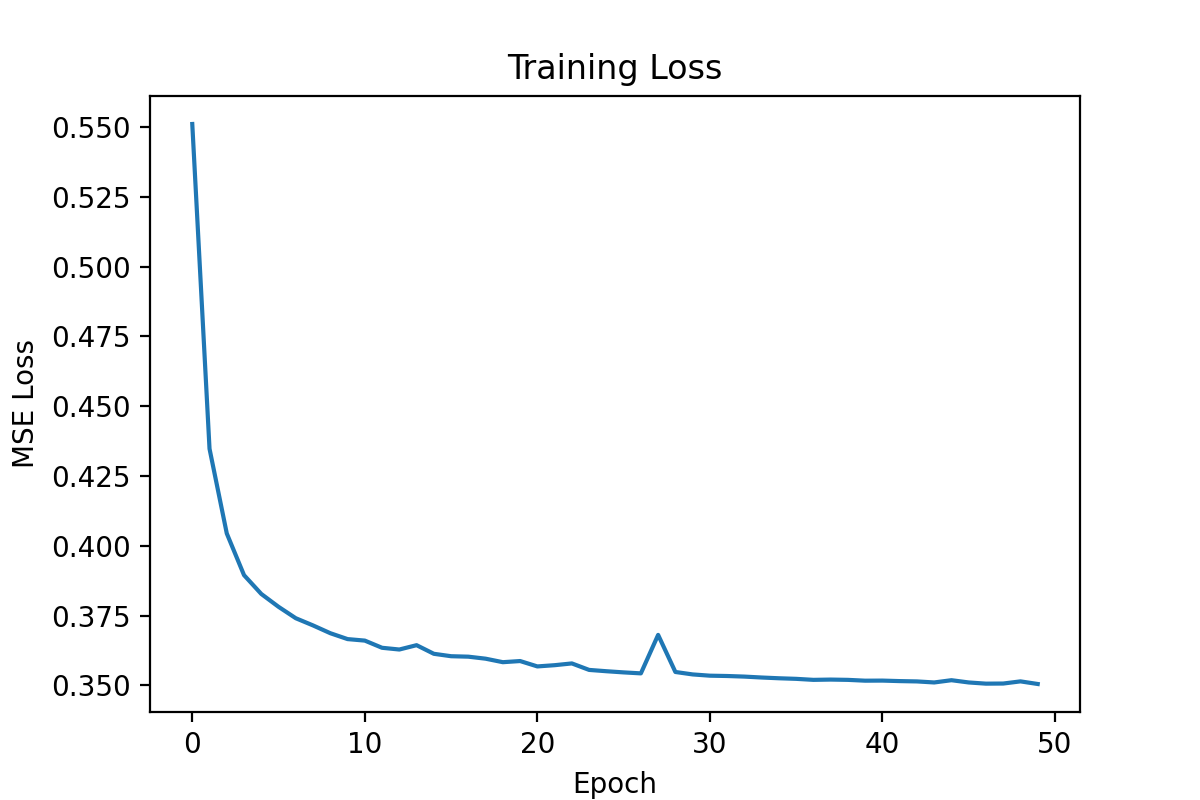
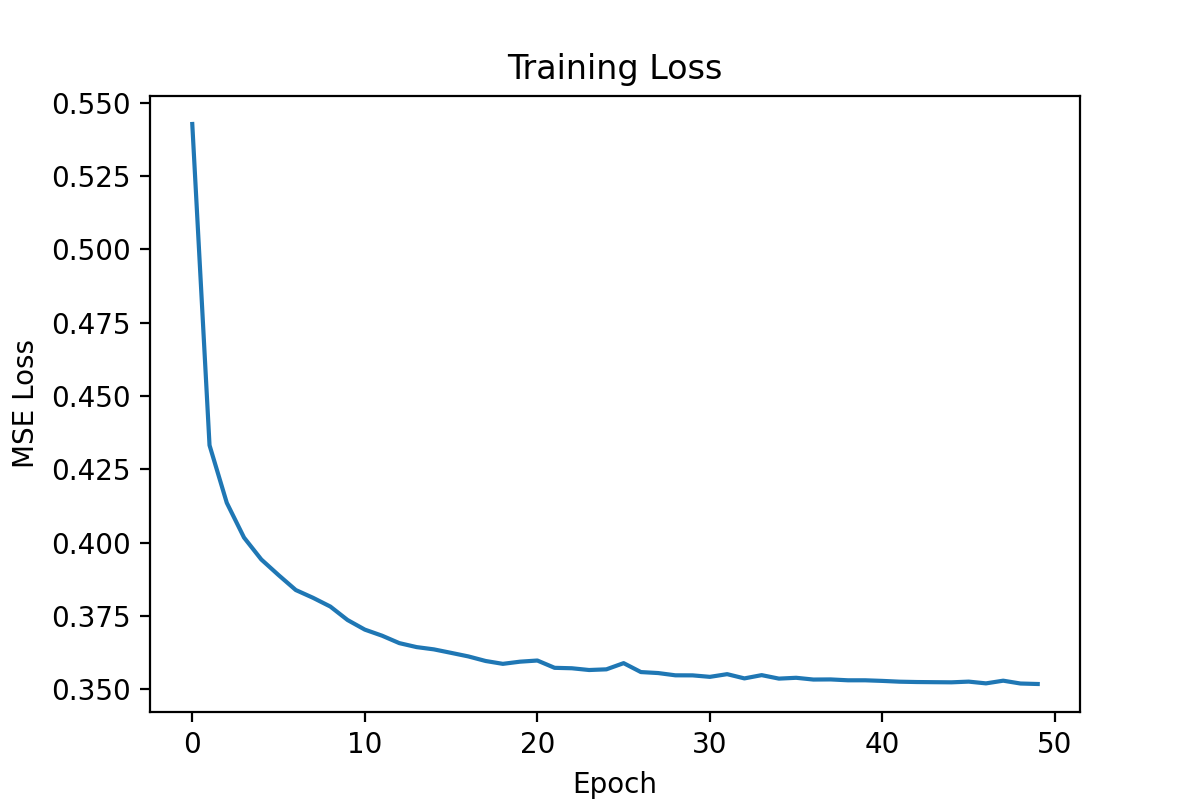
test

diff --git a/v2x_training_lstm.py b/v2x_training_lstm.py
@@ -127,25 +127,43 @@ def run_training(
 
     pre = V2XDataPreprocessor(feature_columns=feature_columns)
     
+    # 시퀀스 생성
     print("Creating sequences...")
     X_v2aix, y_v2aix = pre.create_sequences(v2aix_df, sequence_length=sequence_length)
     X_veremi, y_veremi = pre.create_sequences(veremi_df, sequence_length=sequence_length)
-    X = np.concatenate([X_v2aix, X_veremi], axis=0)
-    y = np.concatenate([y_v2aix, y_veremi], axis=0)
-    
-    print(f"Combined sequences: {X.shape}, Labels: {y.shape}")
 
-    X_train, X_temp, y_train, y_temp = train_test_split(X, y, test_size=0.4, random_state=random_state, stratify=y)
-    X_val, X_test, y_val, y_test = train_test_split(X_temp, y_temp, test_size=0.5, random_state=random_state, stratify=y_temp)
+    # # 시퀀스 결합
+    # X = np.concatenate([X_v2aix, X_veremi], axis=0)
+    # y = np.concatenate([y_v2aix, y_veremi], axis=0)
+    # print(f"Combined sequences: {X.shape}, Labels: {y.shape}")
 
-    normal_idx = np.where(y_train == 0)[0]
-    X_train_n, y_train_n = X_train[normal_idx], y_train[normal_idx]
+    # # 데이터 분할(v2aix/veremi 섞음)
+    # X_train, X_temp, y_train, y_temp = train_test_split(X, y, test_size=0.4, random_state=random_state, stratify=y)
+    # X_val, X_test, y_val, y_test = train_test_split(X_temp, y_temp, test_size=0.5, random_state=random_state, stratify=y_temp)
+    # # 이건 뭐냐 그 normal만 뽑는거
+    # normal_idx = np.where(y_train == 0)[0]
+    # X_train_n, y_train_n = X_train[normal_idx], y_train[normal_idx]
+
+
+    # V2AIX로 정상학습, VeReMi로 이상학습
+    # V2AIX로 정상학습
+    X_train_n = X_v2aix
+    y_train_n = y_v2aix
+    print(f"Train on PURE normal sequences (V2AIX only): {len(X_train_n)}")
+
+    # VeReMi로 검증/테스트셋 분리
+    X_val, X_test, y_val, y_test = train_test_split(
+        X_veremi, y_veremi, test_size=0.5, random_state=random_state, stratify=y_veremi
+    )
+    print(f"Validation sequences (from VeReMi): {X_val.shape}")
+    print(f"Test sequences (from VeReMi): {X_test.shape}")
     
+
     train_loader = DataLoader(V2XDataset(X_train_n, y_train_n), batch_size=batch_size, shuffle=True)
     val_loader = DataLoader(V2XDataset(X_val, y_val), batch_size=batch_size, shuffle=False)
     test_loader = DataLoader(V2XDataset(X_test, y_test), batch_size=batch_size, shuffle=False)
 
-    num_features = X.shape[2]
+    num_features = X_v2aix.shape[2]
     model = LSTMAutoEncoder(input_dim=num_features, sequence_length=sequence_length)
     
     print("Training LSTM-AutoEncoder...")

diff --git a/v2x_testing_lstm.py b/v2x_testing_lstm.py
@@ -116,5 +116,4 @@ def run_testing(
     print(confusion_matrix(labels, preds))
 
 if __name__ == "__main__":
-    # argparse를 사용하거나 직접 경로를 지정할 수 있습니다.
     run_testing()
